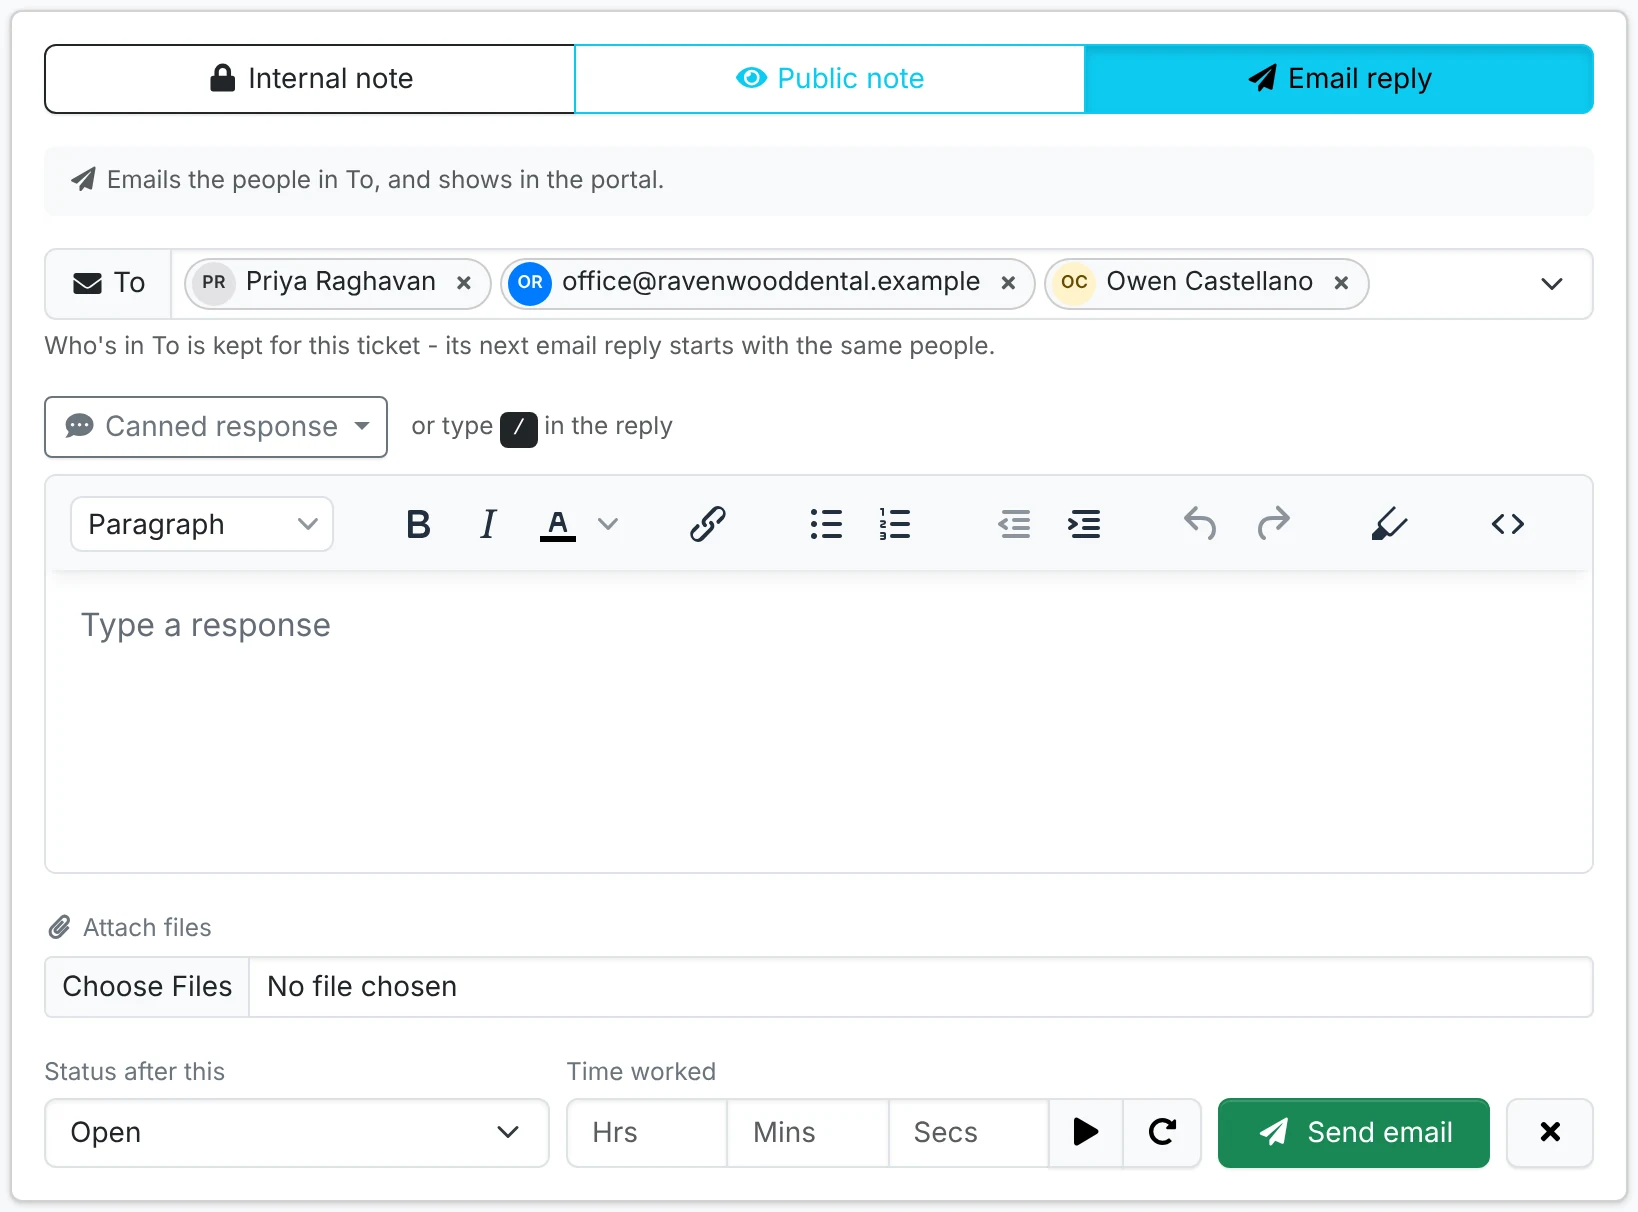
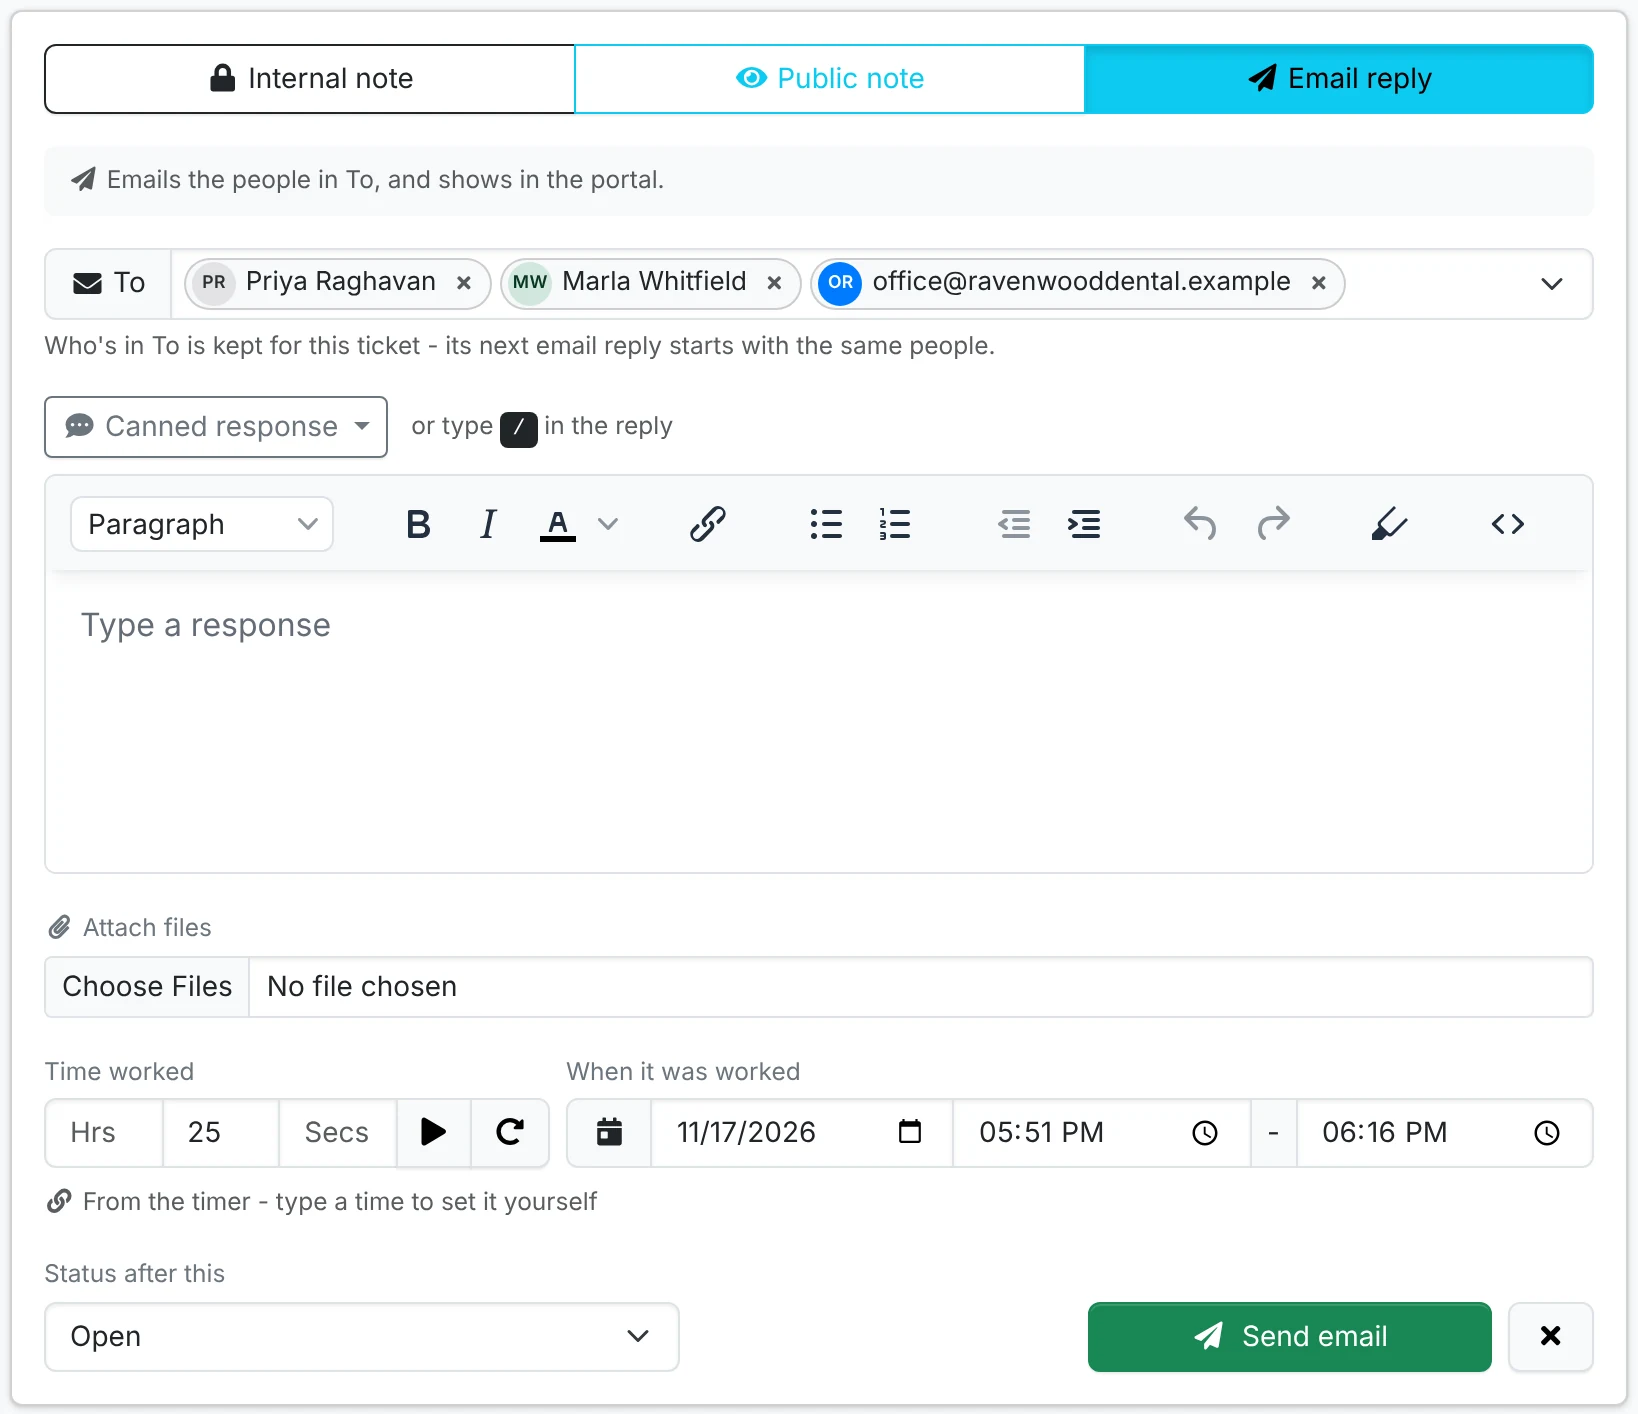
Docs: Working a ticket covers when a note's time was worked, filled from the timer or typed, and changing it in Edit, with the reply box screenshot retaken

diff --git a/content/service-desk/working-a-ticket.md b/content/service-desk/working-a-ticket.md
@@ -47,15 +47,26 @@ Above the conversation are the reply buttons. Nothing is picked for you, so who 
 
 Pick one and the reply box opens, with a line saying exactly who will see it. An email reply carries the conversation so far, as short excerpts, and a link to the ticket that opens without signing in - see [The ticket link in emails](/portal/tickets#ticket-link).
 
-![The reply box with Email reply picked](sd-reply.webp "The reply box: who will see it, the To line, the editor, files, the status after it and the time worked")
+![The reply box with Email reply picked](sd-reply.webp "The reply box: who will see it, the To line, the editor, files, the time worked and when, and the status after it")
 
 1. Type your reply. To use a canned response, click **Canned response** or type <kbd>/</kbd> in the reply. See [Canned responses](/service-desk/canned-responses).
 2. Add files under **Attach files** if you need to.
 3. Pick the **Status after this** - for example, set it to On Hold while you wait for a part.
-4. Enter the **Time worked**, or click ▶ to start a timer and let it count while you work.
+4. Enter the **Time worked**, or click ▶ to start a timer and let it count while you work. **When it was worked** fills in from the timer - the work ends now - or type the date, start and end yourself. See [When the time was worked](#work-times).
 5. Click the button: **Add note** for an internal note, **Post note** for a public note, **Send email** for an email reply. Your signature is added to email replies.
 
 Once an email reply is sent, the message at the top says how many people it went to. If nobody got it - the ticket has no contact or watcher with an email address, or mail isn't set up - it says so, and the reply is kept as a public note.
+
+### When the time was worked {#work-times}
+
+A note with time on it keeps when the work was done, beside the time in the conversation - "25m (Tue Nov 17, 2:05 - 2:30 PM)".
+
+- Until you type them, the date, start and end follow the timer: the work ends now, and started the time worked ago.
+- Type a start and end - for a visit this morning, or a call you're writing up later - and the time worked follows them. Typing pauses the timer. **Use the timer** goes back to it.
+- After typing the times, changing the time worked moves the start - the end stays.
+- An end before the start runs past midnight - 11:30 PM to 12:45 AM is an hour and a quarter.
+
+A note with time worked won't send without a date, start and end. Times are your company's time zone.
 
 ### Timers in the top bar {#timers}
 
@@ -122,6 +133,8 @@ Admins also get a link to the ticket's email in the mail queue, to retry one tha
 Replies from before ITFlow kept this are marked **Public**, as it isn't known whether they were emailed - unless the mail queue still had their email when you updated, in which case they show as email replies too.
 
 Each reply's **⋮** has **Edit**, **Redact** (to blank out something that shouldn't be kept, such as a password the client sent) and **Archive**. Editing an email reply changes it on the ticket and in the portal - the people it was emailed to keep the email as it was sent.
+
+**Edit** changes a note's time and when it was worked too: change the times and the time worked follows, or change only the time worked and the start moves. Notes from before this, and from bulk replies and the API, ended when they were posted.
 
 ## Contact, site and vendor
 
